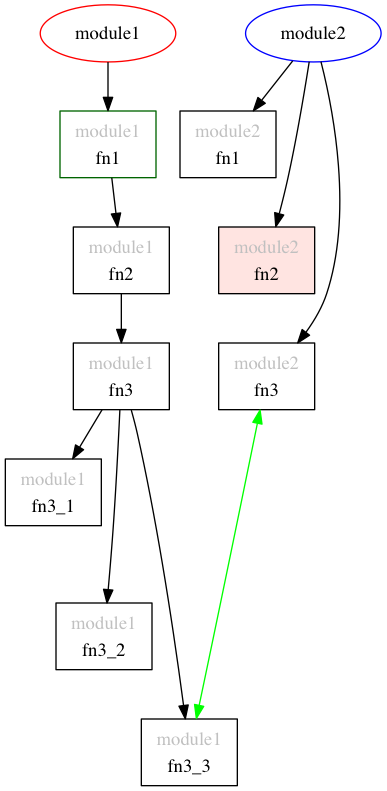
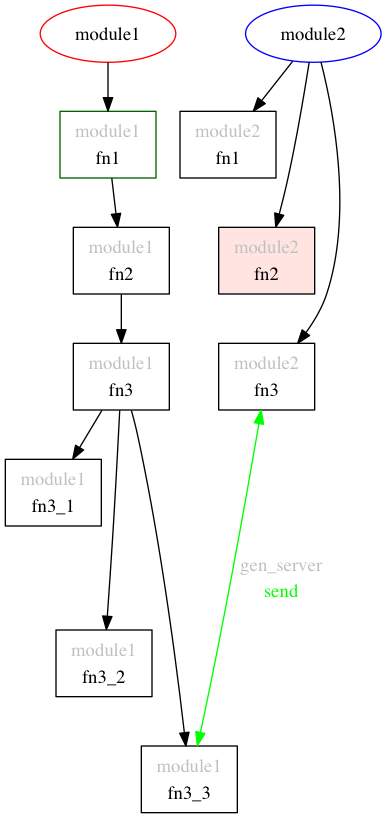
Modified images

diff --git a/simple_examples.py b/simple_examples.py
@@ -214,7 +214,7 @@ def graphMultiModuleWithAttr(prefix):
     digraph.append(node1)
     digraph.append(node2)
     
-    digraph.edge('module2:fn3', 'module1:fn3_3', {'color':'green', 'dir':'both'})
+    digraph.edge('module2:fn3', 'module1:fn3_3', {'color':'green', 'dir':'both', 'label':'gen_server:send'})
     
     digraph.render(prefix)
 

diff --git a/README.md b/README.md
@@ -89,10 +89,10 @@ produces this diagram instead:
 
 ## Nested node appends
 
-Calls to ```append`` can be made sequentially on a node, or any
+Calls to ```append``` can be made sequentially on a node, or any
 supported syntax may be arbitrarily nested.  Thus the following code
-creates a call-stack of functions, the last of which itself calls
-a list of three sub-functions:
+creates a call-stack of functions, the last of which is a call-stack
+with three sub-functions:
 
 ```python
     node = Node({'label':'module1', 'color': 'blue'})
@@ -177,7 +177,7 @@ node2.append(
 )
 node2.setNodeAttr('module1', 'rank', 'same')
 
-digraph.edge('module2:fn3', 'module1:fn3_3', {'color':'green', 'dir':'both'})
+digraph.edge('module2:fn3', 'module1:fn3_3', {'color':'green', 'dir':'both', 'label':'gen_fsm:send'})
 
 digraph.append(node1)
 digraph.append(node2)
